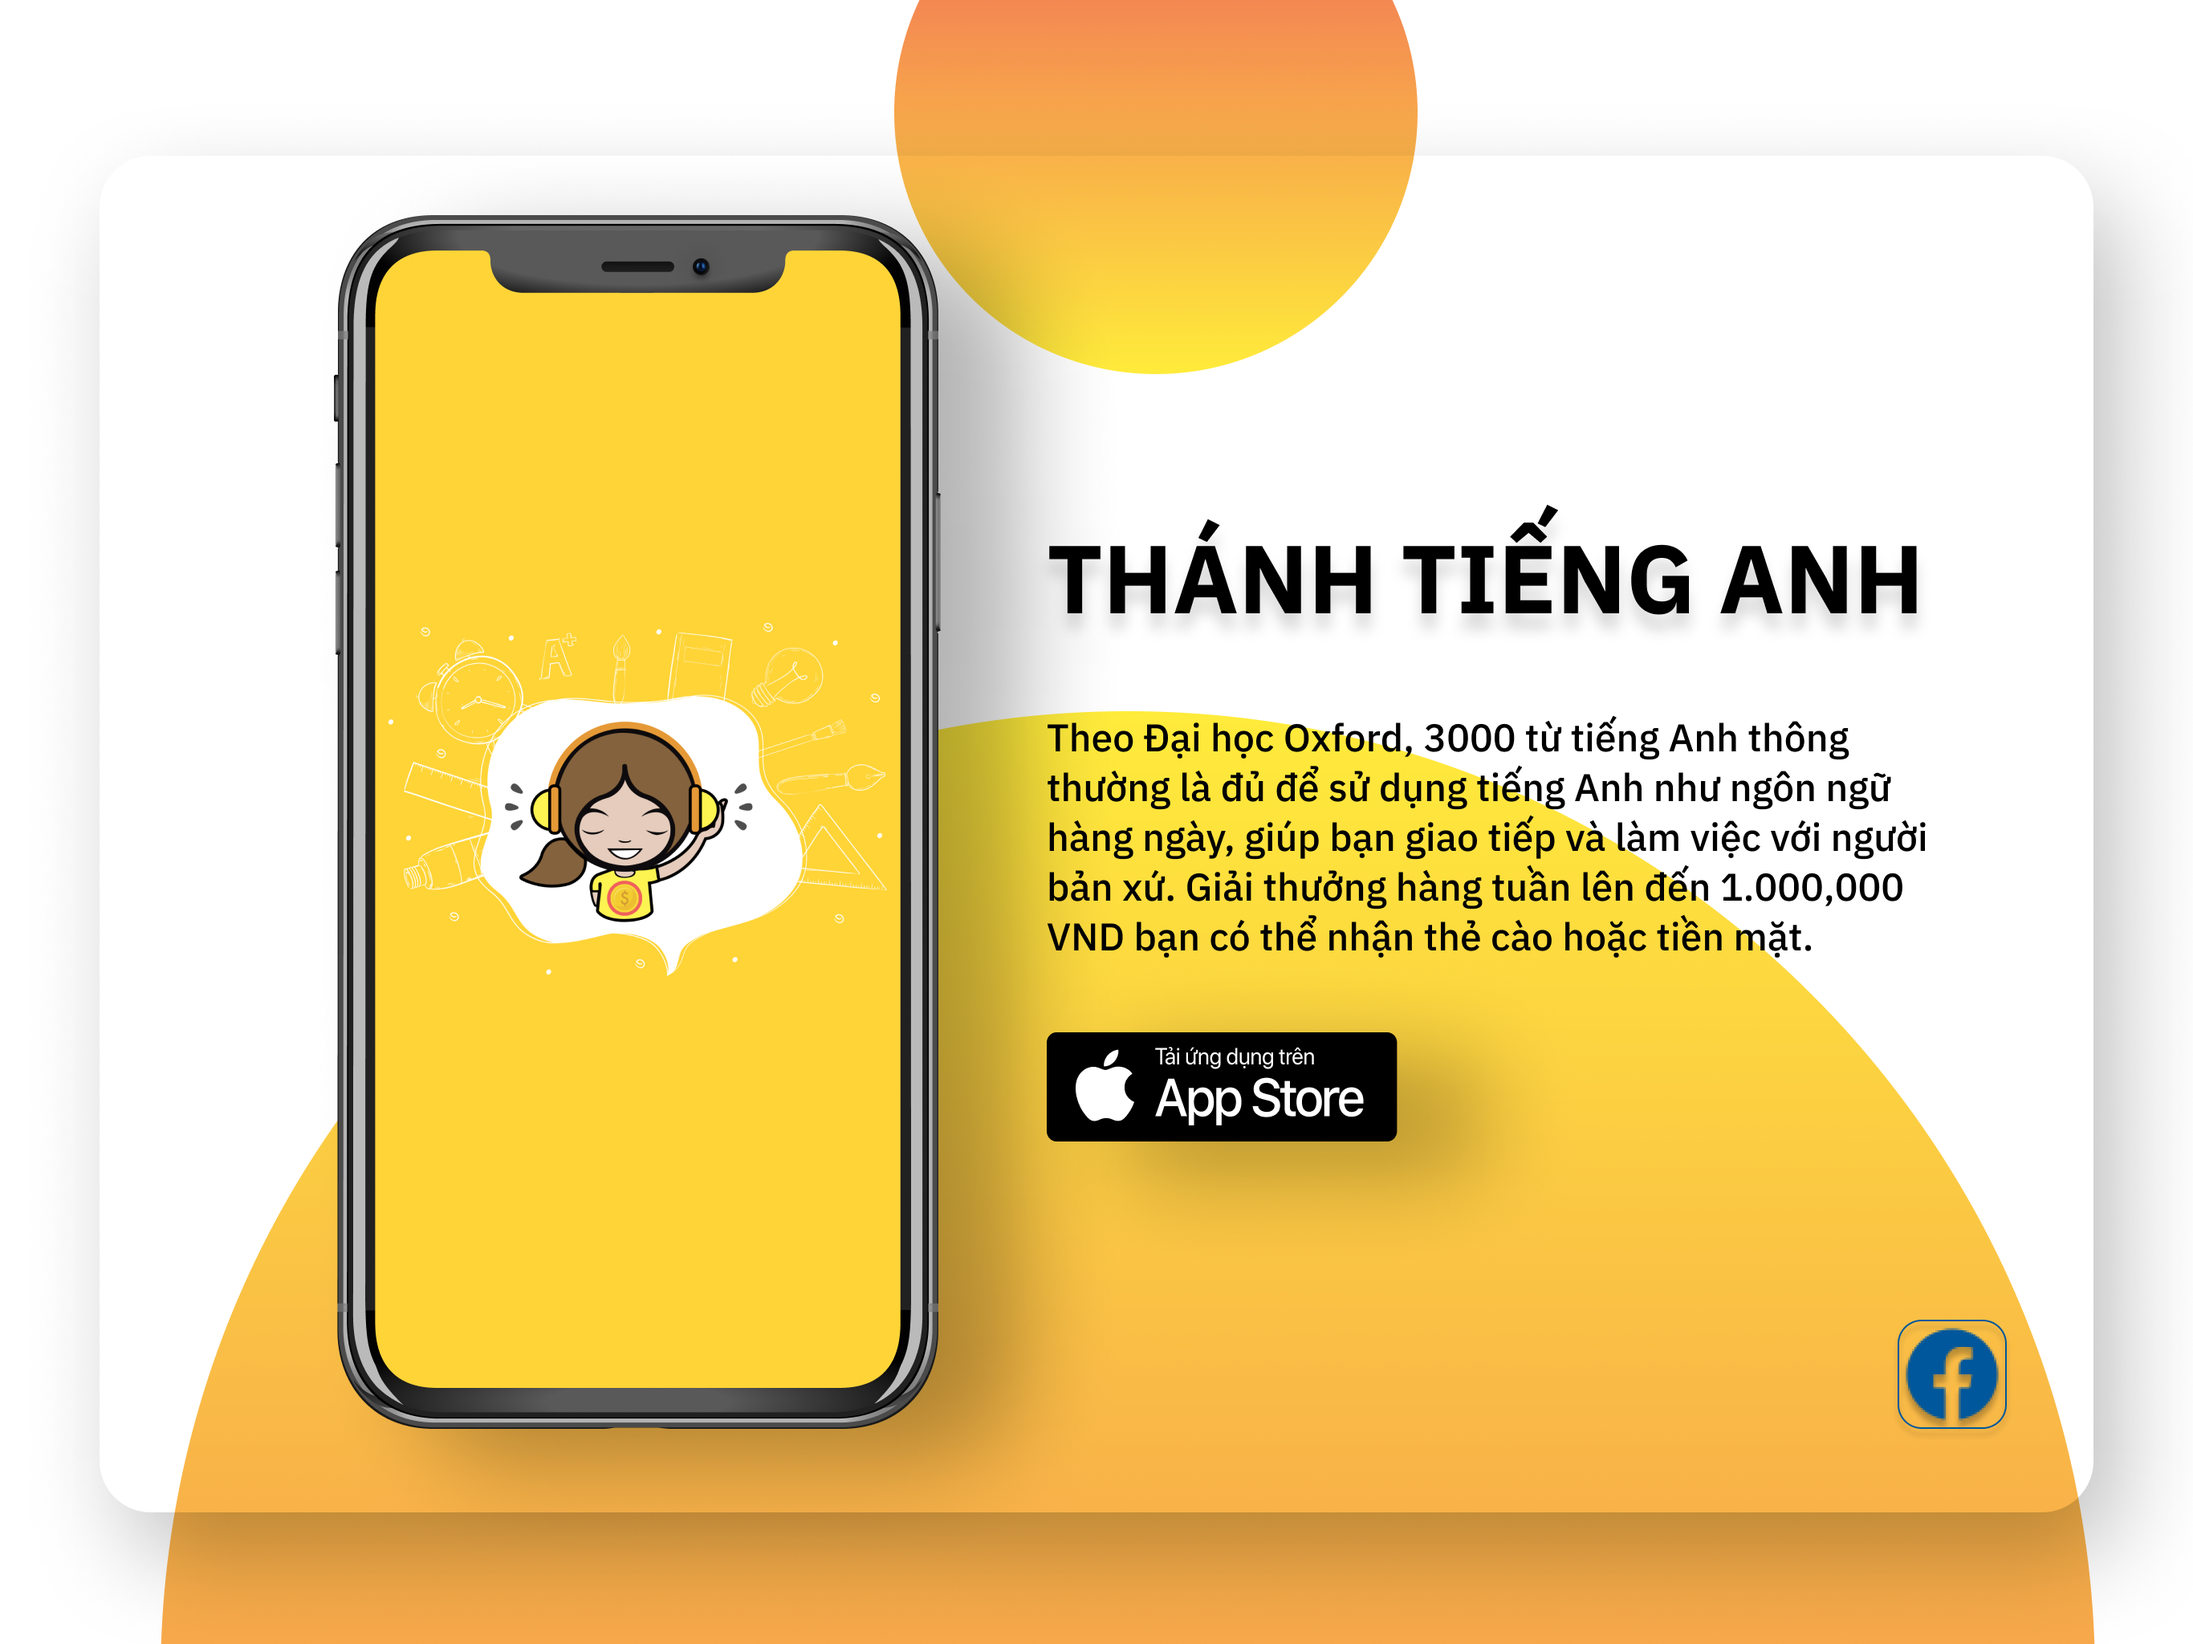
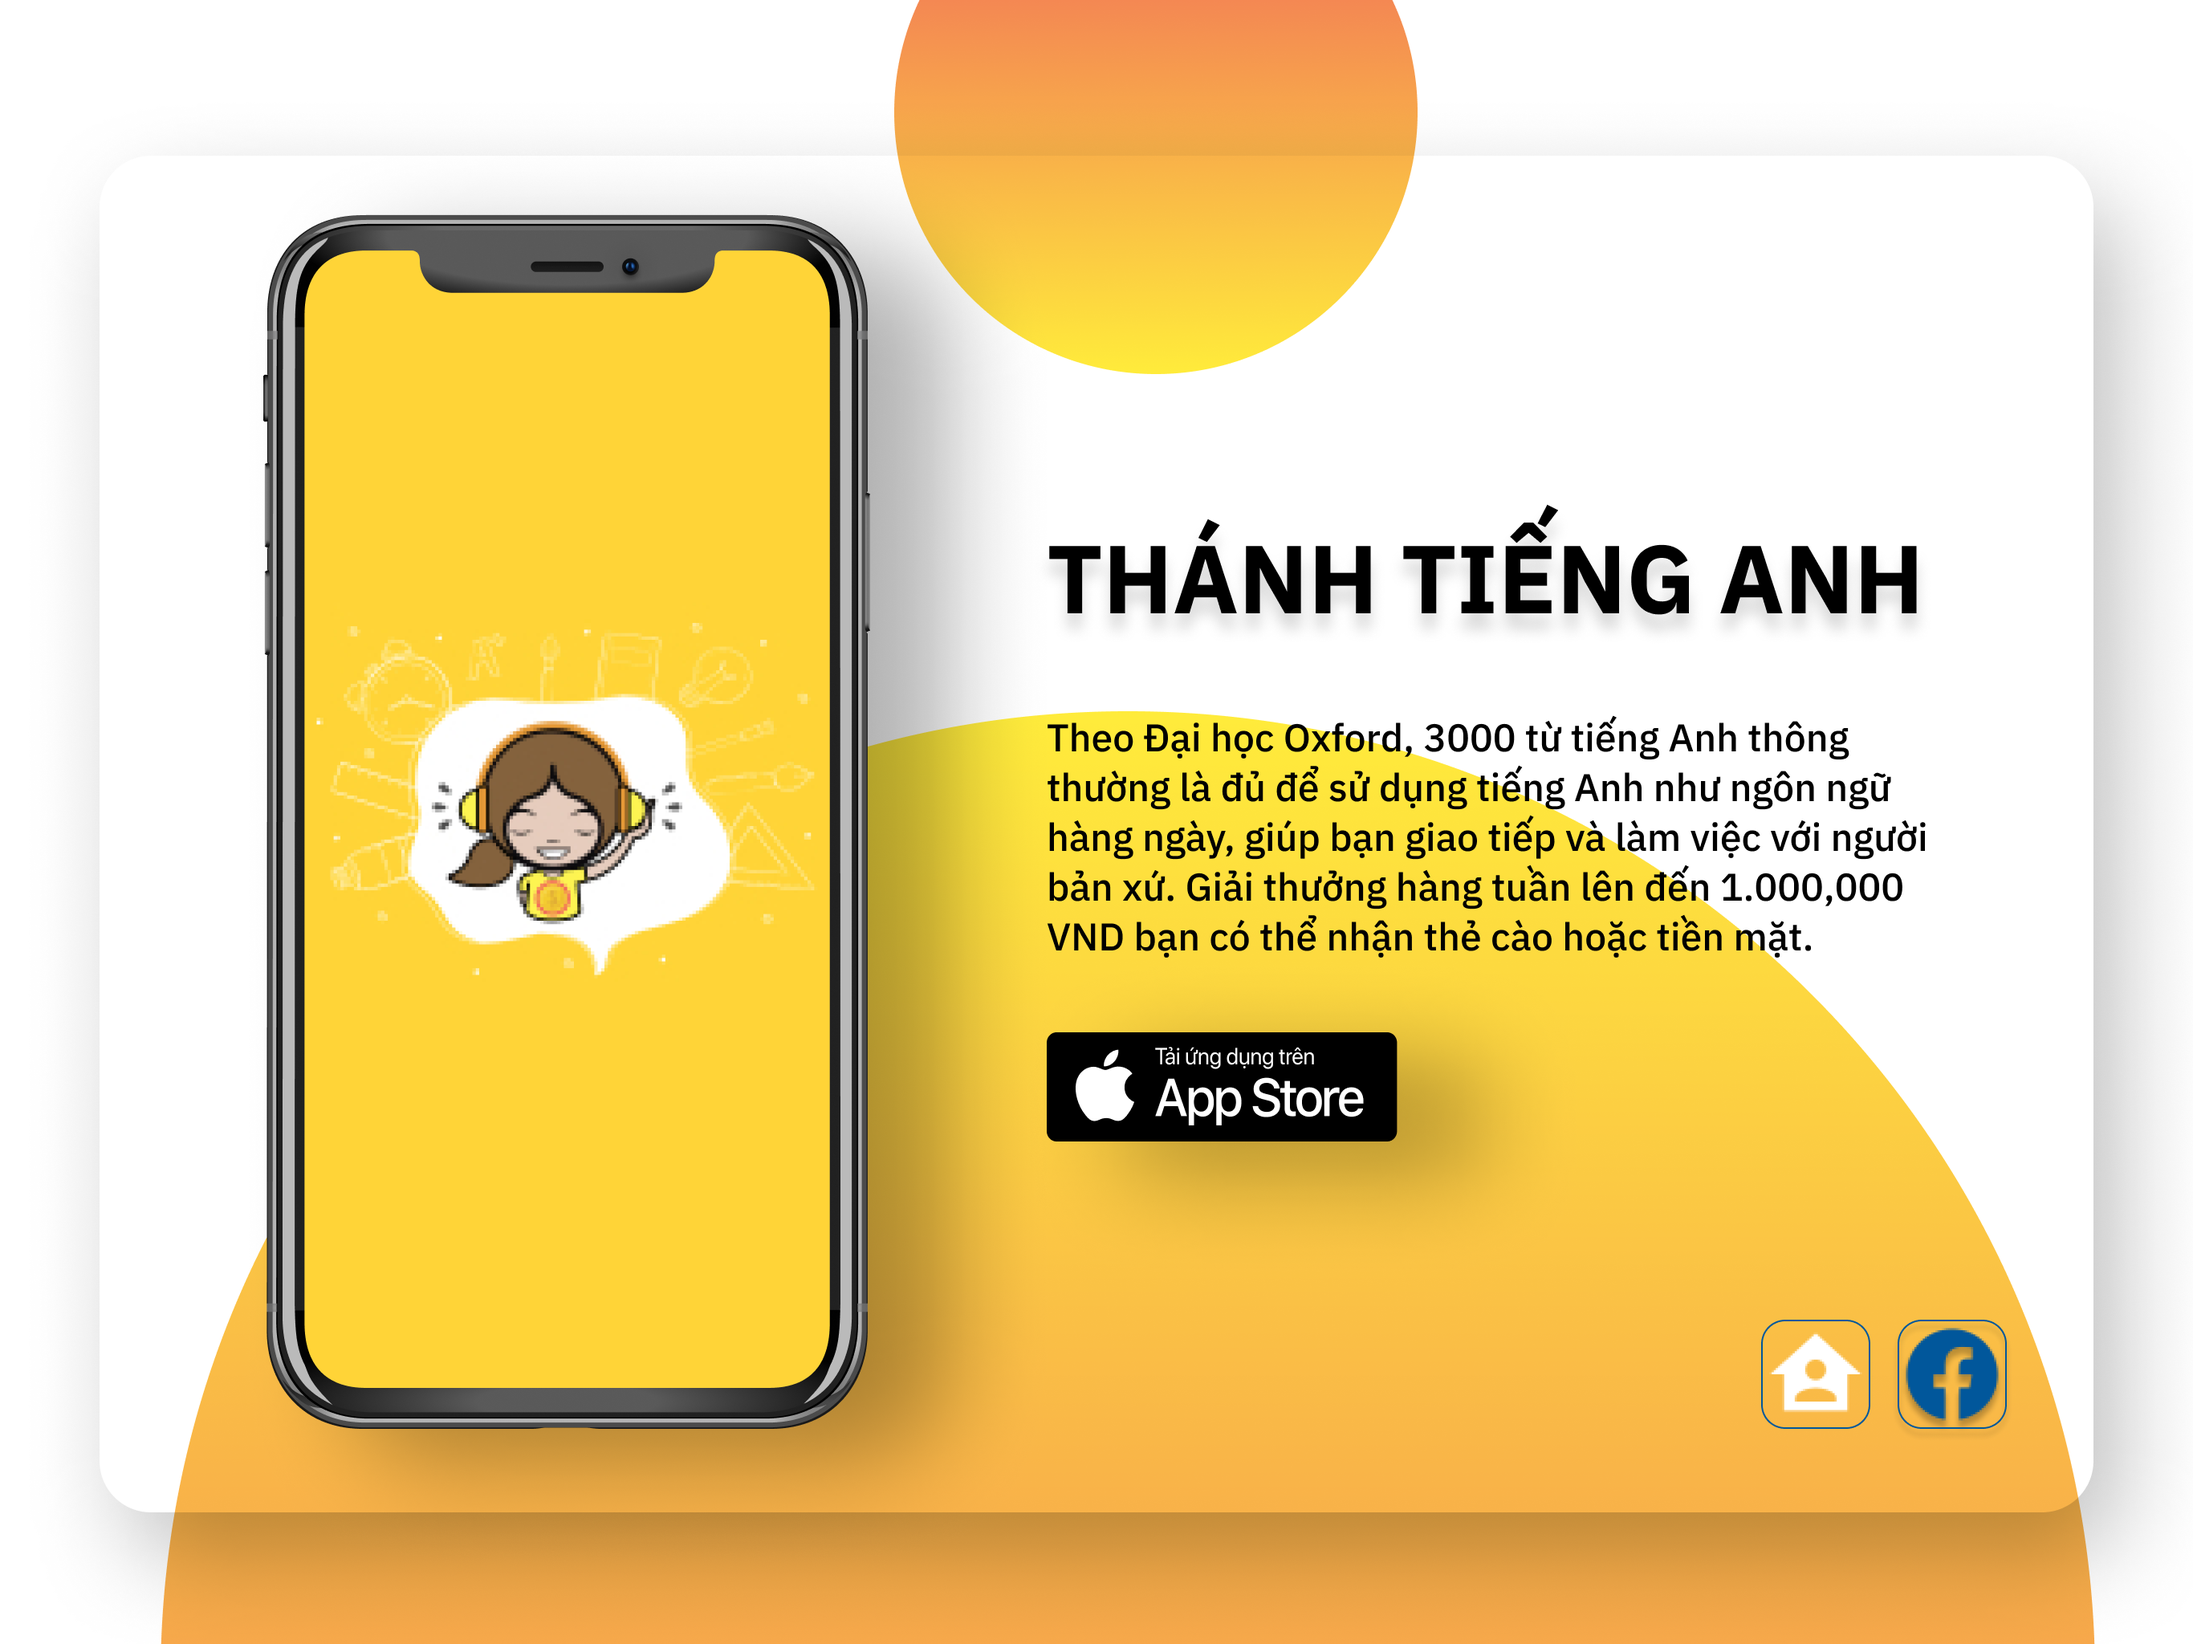
add home

Changed region(s): [[0.0933, 0.125, 0.4978, 0.875], [0.8089, 0.8125, 0.8712, 0.875]]

diff --git a/frontEnd/src/views/home/Dashboard.vue b/frontEnd/src/views/home/Dashboard.vue
@@ -28,14 +28,17 @@
             class="link-app"
             target="blank"
             href="https://apps.apple.com/us/app/th%C3%A1nh-nghe-ti%E1%BA%BFng-anh/id1504696758?ls=1&fbclid=IwAR3c3UEtRMMOnlugvrzplQWaib832IuDkNRn53bOhbHKtpJ8ytzzTSoG7FI"
-          >
-          </a>
+          />
+          <a
+            class="link-fb link-admin"
+            target="blank"
+            href="http://giaithuong.top"
+          />
           <a
             class="link-fb"
             target="blank"
             href="https://www.facebook.com/hocchoivuicothuong"
-          >
-          </a>
+          />
         </v-row>
       </v-sheet>
     </v-carousel-item>

diff --git a/frontEnd/src/sass/overrides.sass b/frontEnd/src/sass/overrides.sass
@@ -109,6 +109,8 @@
 .cus-carousel .position-link-img a.link-fb
   width: 45px
   height: 45px
-  bottom: 82px
+  margin-top: 214px
   margin-left: 331px
   cursor: pointer
+.cus-carousel .position-link-img a.link-fb.link-admin
+  margin-left: 278px
